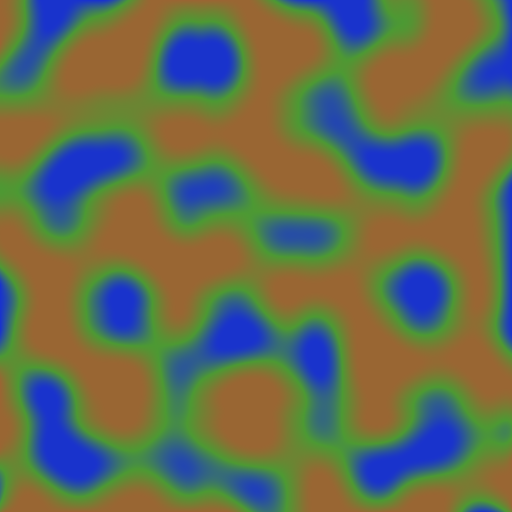
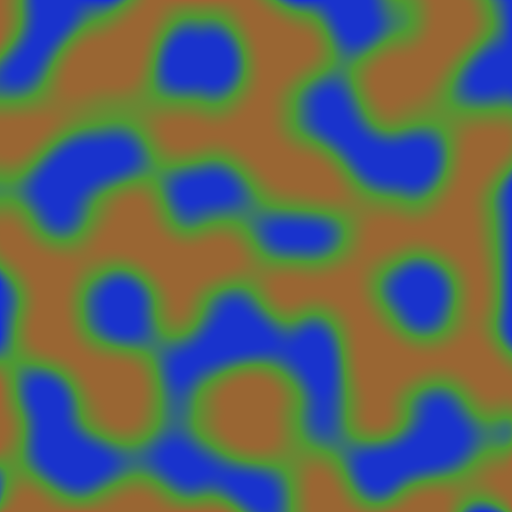
fix light and some bugs

diff --git a/Assets/Scripts/MapGenerator.cs b/Assets/Scripts/MapGenerator.cs
@@ -86,7 +86,7 @@ class MapGenerator : MonoBehaviour
             alphaKeys[0] = new GradientAlphaKey(1.0f, 0.0f);
             alphaKeys[1] = new GradientAlphaKey(1.0f, 1.0f);
 
-            wetGradient.SetKeys(colorKeys, alphaKeys);
+            lightGradient.SetKeys(colorKeys, alphaKeys);
         }
         var lightMapper = new Func<float, Color>(val => lightGradient.Evaluate(Mathf.Clamp01(val)));
 
@@ -116,9 +116,9 @@ class MapGenerator : MonoBehaviour
 
         lightmapShader.SetTexture(lightmapKernel, "heighmap", heighmap);
         lightmapShader.SetTexture(lightmapKernel, "lightmap", lightmapRTexture);
-        moistureShader.SetVector("sunDirection", sunDirection);
-        moistureShader.SetVector("resolution", new Vector2(resolution.x, resolution.y));
-        moistureShader.SetVector("size", new Vector2(1, 1));
+        lightmapShader.SetVector("sunDirection", sunDirection);
+        lightmapShader.SetVector("resolution", new Vector2(resolution.x, resolution.y));
+        lightmapShader.SetVector("size", new Vector2(1, 1));
 
         lightmapShader.Dispatch(lightmapKernel, gx, gy, 1);
 
@@ -223,11 +223,10 @@ class MapGenerator : MonoBehaviour
 
         var texture = new Texture2D(renderTexture.width, renderTexture.height)
         {
-            wrapMode = TextureWrapMode.Clamp
+            wrapMode = TextureWrapMode.Clamp,
         };
         texture.SetPixels(colors);
         texture.Apply(true, false); // true = перезаписать исходные данные
-
         // пока костыль, но пусть будет
         texture = TextureFlip.FlipHorizontal(texture);
         texture = TextureFlip.RotateTexture90CounterClockwise(texture);
@@ -236,9 +235,8 @@ class MapGenerator : MonoBehaviour
         {
             diffuseTexture = texture,
             normalMapTexture = null,
-            tileSize = new Vector2(terrain.terrainData.size.x, terrain.terrainData.size.z)
+            tileSize = new Vector2(terrain.terrainData.size.x, terrain.terrainData.size.z),
         };
-        //moistureLayer.tileSize = new Vector3(1f, 0f, 1f);
 
         terrain.terrainData.terrainLayers = new TerrainLayer[] { textureLayer };
 
